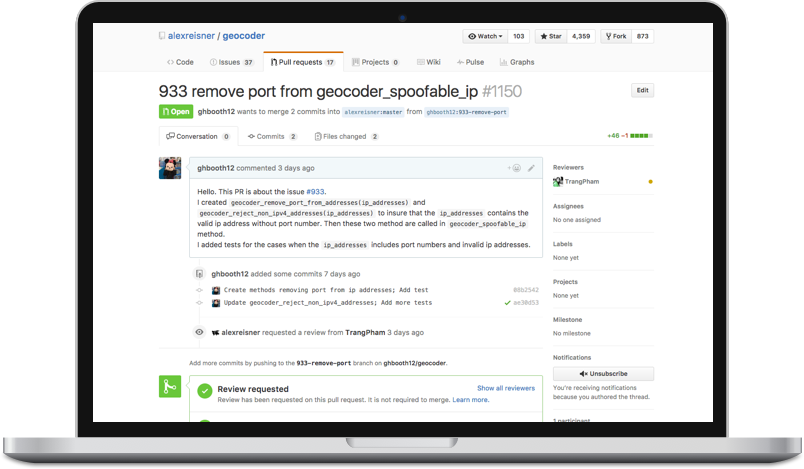
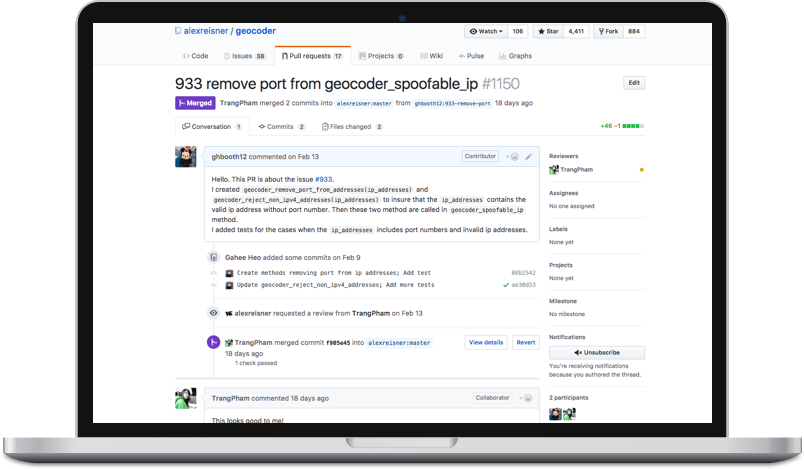
Update backend projects | open source

diff --git a/_includes/skills.html b/_includes/skills.html
@@ -10,10 +10,10 @@
       <div class="col-sm-3 text-center">
         <div class="skill-box">
           <i class="fa fa-3x fa-diamond text-primary wow bounceIn"></i>
-          <h3>Ruby on Rails</h3>
+          <h3>Ruby</h3>
           <ul class="text-faded list-unstyled">
+            <li><strong>Ruby on Rails</strong></li>
             <li>OOP with Ruby</li>
-            <li>Ruby on Rails</li>
             <li>TDD using RSpec</li>
             <li>API programming and design</li>
           </ul>
@@ -24,10 +24,10 @@
           <i class="fa fa-3x fa-sitemap text-primary wow bounceIn" data-wow-delay=".2s"></i>
           <h3>JavaScript</h3>
           <ul class="text-faded list-unstyled">
+            <li><strong>AngularJS</strong></li>
+            <li>jQuery and DOM scripting</li>
             <li>HTML, CSS, Bootstrap</li>
             <li>OOP with JavaScript</li>
-            <li>jQuery and DOM scripting</li>
-            <li>AngularJS, Node.js</li>
             <li>HAML, SASS, LESS</li>
           </ul>
         </div> <!-- .skill-box -->
@@ -39,19 +39,18 @@
           <ul class="text-faded list-unstyled">
             <li>SQLite</li>
             <li>PostgreSQL</li>
-            <li>MySQL</li>
           </ul>
         </div> <!-- .skill-box -->
       </div> <!-- .col-sm-3 -->
       <div class="col-sm-3 text-center">
         <div class="skill-box">
           <i class="fa fa-3x fa-github text-primary wow bounceIn" data-wow-delay=".6s"></i>
-          <h3>Familiarity of</h3>
+          <h3>Tools</h3>
           <ul class="text-faded list-unstyled">
+            <li><strong>Git/GitHub</strong></li>
             <li>Heroku</li>
-            <li>Git</li>
+            <li>Open Source Projects</li>
             <li>AWS</li>
-            <li>Open Source Project</li>
           </ul>
         </div> <!-- .skill-box -->
       </div> <!-- .col-sm-3 -->

diff --git a/_includes/about.html b/_includes/about.html
@@ -2,19 +2,21 @@
   <div class="container text-center">
     <h2>About me</h2>
     <hr>
-    <p class="lead">Nam et libero malesuada tellus luctus tempor. Quisque posuere lectus non quam pharetra porta tincidunt sit amet turpis. Fusce ullamcorper in purus sed ultrices. Donec dapibus eros id suscipit lobortis.</p>
+    <p class="lead">I like coding challenges. It's frustrating but that is one of good ways to improve my programming skills effectively. Currently I'm working on several open-source projects. I'm happy that I can make programs that make our life easier and more fun.</p>
 
     <div class="row">
       <div class="col-sm-6">
-        <h3>Learn to make a good program</h3>
+        <h3>Learn to make good programs</h3>
         <ul class="list-unstyled">
+          <li>Software Development course in Bloc Programming Institute</li>
           <li>Bachelor's degree in Computer and Electronic Engineering</li>
-          <li>2+ years of experience</li>
+          <li>1+ years of experience</li>
         </ul>
       </div>
       <div class="col-sm-6">
-        <h3>Enjoy to make a good program</h3>
+        <h3>Enjoy making good programs</h3>
         <ul class="list-unstyled">
+          <li>Experiences in creating web apps.</li>
           <li>Open source contributions to Rails community</li>
           <li>Creative, forward thinker</li>
         </ul>

diff --git a/_includes/contact.html b/_includes/contact.html
@@ -30,13 +30,13 @@
           <input type='hidden' name='redirect_to' value='https://ghbooth12.github.io/voila/thank_you/' />
           <div class="row">
             <div class="col-md-5">
-              <input type='text' name='name' placeholder='Your Full Name' />
+              <input type='text' name='name' placeholder='Your Full Name' required>
             </div>
             <div class="col-md-7">
-              <input type='email' name='email' placeholder='Your E-mail Address' />
+              <input type='email' name='email' placeholder='Your E-mail Address' required>
             </div>
           </div>
-          <textarea name='message' placeholder='Write your message' rows=8></textarea>
+          <textarea name='message' placeholder='Write your message' rows=8 required></textarea>
           <input class="wow tada" data-wow-delay=".4s" type='submit' value='Send Message' />
         </form>
       </div>

diff --git a/_includes/open_source.html b/_includes/open_source.html
@@ -6,9 +6,9 @@
       <ol class="carousel-indicators">
         <li data-target="#open-source-projects" data-slide-to="0" class="active"><a>CSV Manager</a></li> |
         <li data-target="#open-source-projects" data-slide-to="1"><a>Google Places</a></li> |
-        <li data-target="#open-source-projects" data-slide-to="2"><a>Faker</a></li> |
-        <li data-target="#open-source-projects" data-slide-to="3"><a>Friendly Id</a></li> |
-        <li data-target="#open-source-projects" data-slide-to="4"><a>Geocoder</a></li>
+        <li data-target="#open-source-projects" data-slide-to="2"><a>Geocoder</a></li> |
+        <li data-target="#open-source-projects" data-slide-to="3"><a>Faker</a></li> |
+        <li data-target="#open-source-projects" data-slide-to="4"><a>Friendly Id</a></li>
       </ol>
 
       <!-- Wrapper for slides -->

diff --git a/_includes/header.html b/_includes/header.html
@@ -1,7 +1,7 @@
 <section id="header" data-type="background" data-speed="5">
   <div class="header-content">
     <div class="header-content-inner">
-      <h1>Creative Software Development</h1>
+      <h1>Creative Software Developer</h1>
       <hr>
       <p>I'm a software/full-stack developer and living in Chicago, IL. I enjoy building web apps using Ruby, Rails, Javascript, AngularJS and more.</p>
       <a href="#about" class="btn btn-primary btn-xl page-scroll wow rubberBand">Find Out More</a>

diff --git a/_backend/06_open_api.md b/_backend/06_open_api.md
@@ -3,7 +3,7 @@ layout: modal
 modal-id: open_api
 title: Open API
 thumbnail-path: "assets/img/backend/open_api.png"
-labels: [External API, JSON, Rails Serializers]
+labels: [External API, JSON, Rails Serializers, cURL]
 short-description: Open API is an externally usable API for a basic to-do list application. This API will allow users to modify user accounts and to-do items from the command line.
 ---
 
@@ -11,7 +11,8 @@ short-description: Open API is an externally usable API for a basic to-do list a
 ![]({{ site.baseurl }}/assets/img/backend/open_api.png)
 
 {:.center}
-[View GitHub](https://github.com/ghbooth12/open_api){:target="\_blank"}
+[View GitHub](https://github.com/ghbooth12/open_api){:target="\_blank"} |
+[View Full Site](https://open-api-ghbooth12.herokuapp.com/){:target="\_blank"}
 
 
 Open API is an API for a to-do list app, so that users can authenticate and manage their information externally. It allows users to change the same data from the command line or the browser. Also it supports other platforms and allows programmers to build on the Open API in new and exciting ways.

diff --git a/_open_source/03_geocoder.md b/_open_source/03_geocoder.md
@@ -14,4 +14,4 @@ short-description: Geocoder is a gem for converting addresses and coordinates, f
 [Gem Site](https://github.com/alexreisner/geocoder){:target="\_blank"}
 
 
-Geocoder is a gem for converting addresses and coordinates, finding nearby locations, determining distances. I made a [pull-request](https://github.com/alexreisner/geocoder/pull/1150){:target="\_blank"} in the one of the methods to return ip addresses without port numbers. I also added more specific test code.
+Geocoder is a gem for converting addresses and coordinates, finding nearby locations, determining distances. My [pull-request](https://github.com/alexreisner/geocoder/pull/1150){:target="\_blank"} has been merged, the methods that I made help the gem return ip addresses without port numbers. I also added more specific test code.

diff --git a/_backend/02_bookmarker.md b/_backend/02_bookmarker.md
@@ -11,7 +11,8 @@ short-description: Bookmarker is a production quality social bookmarking app tha
 ![]({{ site.baseurl }}/assets/img/backend/bookmarker.png)
 
 {:.center}
-[View Full Site](http://bookmarker-ghbooth12.herokuapp.com){:target="\_blank"}
+[View GitHub](https://github.com/ghbooth12/bookmarker){:target="\_blank"} |
+[View Full Site](https://bookmarker-ghbooth12.herokuapp.com){:target="\_blank"}
 
 
 Bookmarker is a production quality social bookmarking app that allows users to bookmark URLs via email, peruse other user's bookmarks and maintain a personal index of categorized bookmarks.

diff --git a/_backend/03_wiki_app.md b/_backend/03_wiki_app.md
@@ -11,6 +11,7 @@ short-description: Wiki app is a production quality SaaS app that allows users t
 ![]({{ site.baseurl }}/assets/img/backend/wiki_app.png)
 
 {:.center}
+[View GitHub](https://github.com/ghbooth12/wiki_app){:target="\_blank"} | 
 [View Full Site](http://wiki-app-ghbooth12.herokuapp.com){:target="\_blank"}
 
 Wiki app is a production quality SaaS app that allows users to create their own wikis. Users can create public and private Markdown-based wikis.

diff --git a/_backend/05_analytics_app.md b/_backend/05_analytics_app.md
@@ -11,6 +11,7 @@ short-description: Analytics app is an analytics service and reporting tool that
 ![]({{ site.baseurl }}/assets/img/backend/analytics_app.png)
 
 {:.center}
+[View GitHub](https://github.com/ghbooth12/analytics_app){:target="\_blank"} |
 [View Full Site](http://analytics-app-ghbooth12.herokuapp.com){:target="\_blank"}
 
 

diff --git a/_backend/01_music_app.md b/_backend/01_music_app.md
@@ -11,6 +11,7 @@ short-description: Music app is a production quality app that allows users to se
 ![]({{ site.baseurl }}/assets/img/backend/music_app.png)
 
 {:.center}
+[View GitHub](https://github.com/ghbooth12/music_app){:target="\_blank"} | 
 [View Full Site](http://music-app-ghbooth12.herokuapp.com){:target="\_blank"}
 
 

diff --git a/_backend/04_todo_app.md b/_backend/04_todo_app.md
@@ -11,6 +11,7 @@ short-description: Todo app is a self-destructing to-do list application that he
 ![]({{ site.baseurl }}/assets/img/backend/todo_app.png)
 
 {:.center}
+[View GitHub](https://github.com/ghbooth12/todo_app){:target="\_blank"} | 
 [View Full Site](http://todo-app-ghbooth12.herokuapp.com){:target="\_blank"}
 
 
